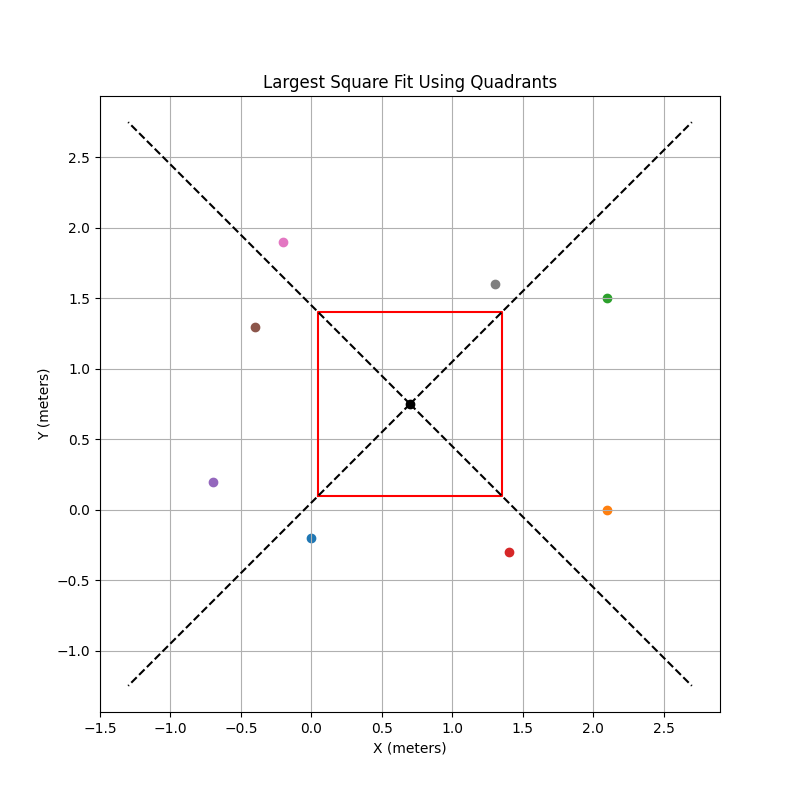
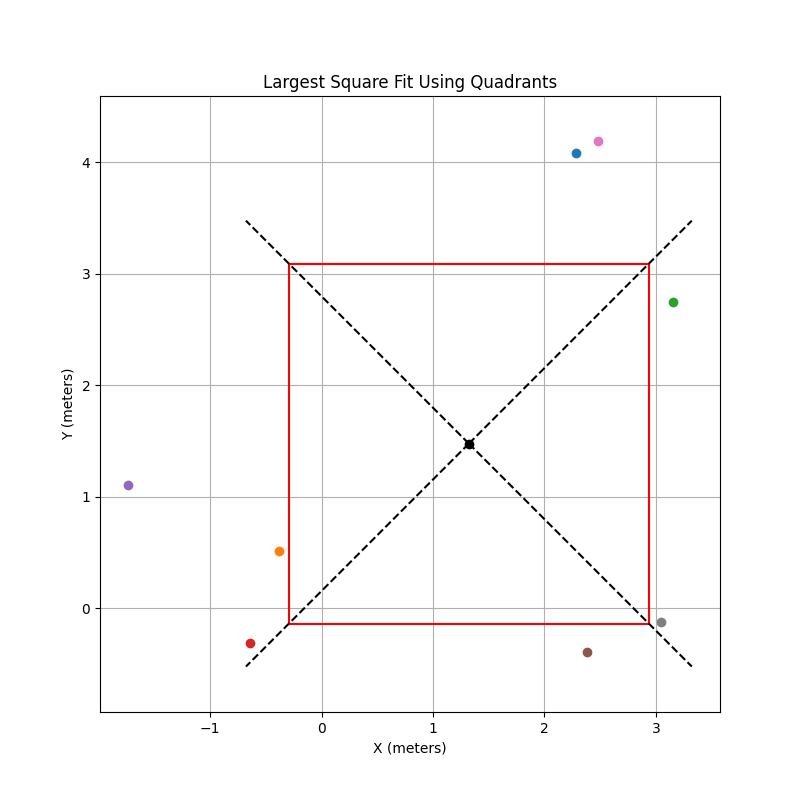
hw5 update until step 2 (calculate square)

diff --git a/rb5_control/src/hw5_square.py b/rb5_control/src/hw5_square.py
@@ -37,23 +37,26 @@ def make_square(object_coords):
 
     for x, y, label in object_coords:
         angle = calculate_angle(x, y, center_x, center_y)
-        if 0 <= angle < 90:  # Quadrant 1
+        if 45 <= angle < 135:  # Quadrant 1
             quadrant_1.append((x, y))
-        elif 90 <= angle < 180:  # Quadrant 2
+        elif 135 <= angle < 225:  # Quadrant 2
             quadrant_2.append((x, y))
-        elif 180 <= angle < 270:  # Quadrant 3
+        elif 225 <= angle < 315:  # Quadrant 3
             quadrant_3.append((x, y))
         else:  # Quadrant 4
             quadrant_4.append((x, y))
 
+    # Define margins for each constraint
+    margin = 0.2
+
     # Calculate boundaries
-    top_boundary = min(y for x, y in quadrant_1) if quadrant_1 else center_y
-    left_boundary = max(x for x, y in quadrant_2) if quadrant_2 else center_x
-    bottom_boundary = max(y for x, y in quadrant_3) if quadrant_3 else center_y
-    right_boundary = min(x for x, y in quadrant_4) if quadrant_4 else center_x
+    top_boundary = (min(y for x, y in quadrant_1) if quadrant_1 else center_y) 
+    left_boundary = (max(x for x, y in quadrant_2)if quadrant_2 else center_x) 
+    bottom_boundary = (max(y for x, y in quadrant_3) if quadrant_3 else center_y) 
+    right_boundary = (min(x for x, y in quadrant_4) if quadrant_4 else center_x) 
 
     # Calculate the side of the largest square that fits
-    square_side = min(top_boundary - bottom_boundary, right_boundary - left_boundary)
+    square_side = min(top_boundary - bottom_boundary, right_boundary - left_boundary) - margin 
 
     # Calculate square coordinates
     square_start_x = center_x - square_side / 2
@@ -96,3 +99,6 @@ def make_square(object_coords):
     print(f"Largest square dimensions: {square_side}m x {square_side}m")
     print(f"Square center point: ({center_x}, {center_y})")
     print(f"Square coordinates: ({square_start_x}, {square_start_y}) to ({square_end_x}, {square_end_y})")
+
+# Test local
+# make_square([(2.2822766304016113, 4.08355188369751, 'laptop'), (-0.38436222076416016, 0.5081926584243774, 'bottle'), (3.153132915496826, 2.7433860301971436, 'potted plant'), (-0.6404055953025818, -0.3099810779094696, 'suitcase'), (-1.734462022781372, 1.1050945520401, 'umbrella'), (2.3787856101989746, -0.39087170362472534, 'teddy bear'), (2.4763317108154297, 4.186304569244385, 'keyboard'), (3.0441253185272217, -0.12209747731685638, 'stop sign')])

diff --git a/rb5_control/src/hw3_slam.py b/rb5_control/src/hw3_slam.py
@@ -6,6 +6,7 @@ from geometry_msgs.msg import Twist
 import numpy as np
 import matplotlib.pyplot as plt
 import time
+from hw5_square import make_square
 
 class SlamControlNode(Node):
     def __init__(self):
@@ -179,6 +180,7 @@ class SlamControlNode(Node):
         self.save_plot()
         msg = Bool()
         msg.data = True
+        make_square(self.detected_objects[-8:])
         self.done_pub.publish(msg)
 
     def save_plot(self):
@@ -314,68 +316,6 @@ def main(args=None):
     print('ready')
 
     rclpy.spin(node)
-    # print("SLAM 1")
-
-    # node.spin_and_track('move', 0.0)
-    # time.sleep(1)
-
-    # # TRY 1
-    # # # Square movement
-    # for _ in range(1):
-    #     for _ in range(4):  # Stop every 0.5 meters
-    #         print("SLAM loop")
-    #         node.spin_and_track('move', 0.5)
-    #         time.sleep(1)
-    #     node.spin_and_track('spin', 90)
-    #     time.sleep(1)
-
-    # node.update_and_plot()
-    # node.plot_final_landmarks()
-
-    # node.spin_and_track('move', 0.5)
-    # time.sleep(1)
-
-    # Octogon movement
-    # for _ in range(8):
-    #     for _ in range(2):  # Stop every 0.5 meters
-    #         print("SLAM loop")
-    #         node.spin_and_track('move', 0.5)
-    #         time.sleep(1)
-    #     node.spin_and_track('spin', 45)
-    #     time.sleep(1)
-        
-    # try:
-    #     rclpy.spin(node)
-    # except KeyboardInterrupt:
-    #     pass
-
-
-    # # TRY 2
-    # try:
-    #     rclpy.spin(node)
-    # except KeyboardInterrupt:
-    #     pass
-
-    # for _ in range(4):
-    #     for _ in range(4):  # Stop every 0.5 meters
-    #         node.spin_and_track('move', 0.5)
-    #         time.sleep(1)
-    #     node.spin_and_track('spin', 90)
-    #     time.sleep(1)
-
-
-    # # TRY 3
-    # for _ in range(4):
-    #     for _ in range(4):  # Stop every 0.5 meters
-    #         node.spin_and_track('move', 0.5)
-    #         time.sleep(1)
-    #         # rclpy.spin_once(node)
-    #         # time.sleep(1)
-    #     node.spin_and_track('spin', 90)
-    #     time.sleep(1)
-    #     # rclpy.spin_once(node)
-    #     # time.sleep(1)
-
 
     node.destroy_node()
     rclpy.shutdown()

diff --git a/rb5_control/src/hw3_move.py b/rb5_control/src/hw3_move.py
@@ -24,30 +24,30 @@ class MovementCommands(Node):
 
         self.steps = [
             # # square
-            # ['move', 0.5],
-            # ['move', 0.5],
-            # ['move', 0.5],
-            # ['move', 0.5],
-            # ['move', 0.5],
-            # ['spin', 90],
-            # ['move', 0.5],
-            # ['move', 0.5],
-            # ['move', 0.5],
-            # ['move', 0.5],
-            # ['move', 0.5],
-            # ['spin', 90],
-            # ['move', 0.5],
-            # ['move', 0.5],
-            # ['move', 0.5],
-            # ['move', 0.5],
-            # ['move', 0.5],
-            # ['spin', 90],
-            # ['move', 0.5],
-            # ['move', 0.5],
-            # ['move', 0.5],
-            # ['move', 0.5],
-            # ['move', 0.5],
-            # ['spin', 90],
+            ['move', 0.5],
+            ['move', 0.5],
+            ['move', 0.5],
+            ['move', 0.5],
+            ['move', 0.5],
+            ['spin', 90],
+            ['move', 0.5],
+            ['move', 0.5],
+            ['move', 0.5],
+            ['move', 0.5],
+            ['move', 0.5],
+            ['spin', 90],
+            ['move', 0.5],
+            ['move', 0.5],
+            ['move', 0.5],
+            ['move', 0.5],
+            ['move', 0.5],
+            ['spin', 90],
+            ['move', 0.5],
+            ['move', 0.5],
+            ['move', 0.5],
+            ['move', 0.5],
+            ['move', 0.5],
+            ['spin', 90],
             # # # move to start ocotogon
             ['move', 0.5],
             # # octogon
@@ -79,7 +79,6 @@ class MovementCommands(Node):
             ['move', 0.5],
             ['move', 0.5],
             ['spin', 45],
-            ['move', 0.5],
             ['move', 0.5],
             ['move', 0.5],
             ['spin', 45],
